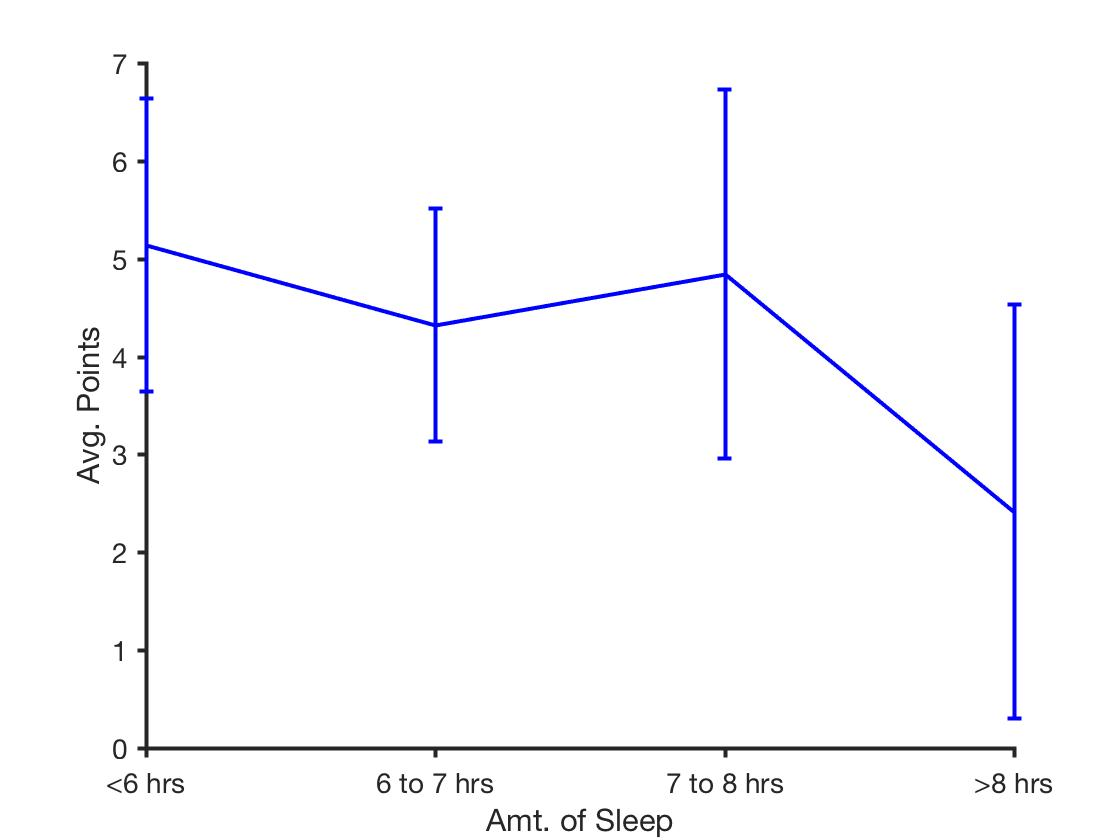
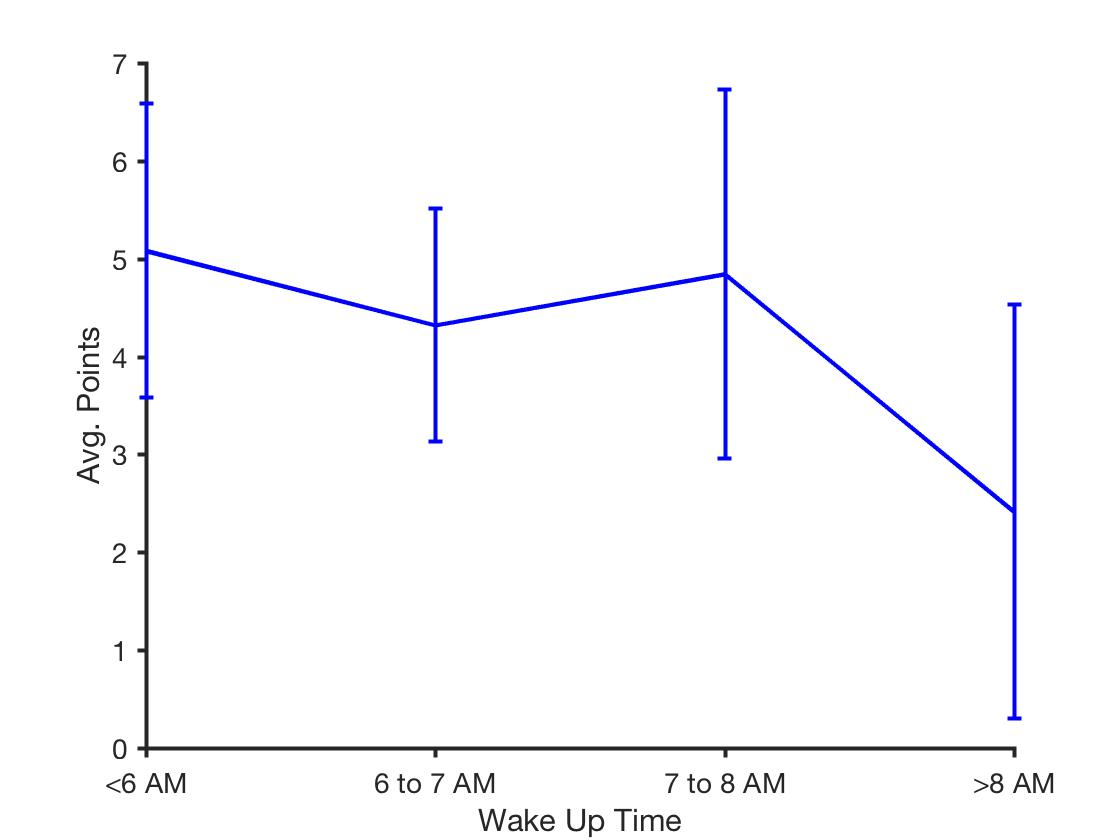
sdf

diff --git a/_posts/2017-12-20-Productivity-Analysis.md b/_posts/2017-12-20-Productivity-Analysis.md
@@ -15,18 +15,18 @@ Essentially, I have a list of daily goals that I wish to accomplish, and I get p
 
 Now that I have been doing this method for the past half a year, I thought I would document the data so far. Perhaps I can learn what factors lead me to have the most productive day?
 
-I should note that I have already conducted a similar study on myself during undergrad, where I plotted how long it took me to complete tasks at different times of day. I discovered that my efficiency (most work completed in least amount of time) was at its peak the earlier in the day I worked on the tasks, and that I was least productive in later hours of the day (in addition to a slight dip during the afternoon). Here I wanted to more finely figure out what leads to an overall benefit to my productivity, as measured by an aggregate "points" system.
-
-## Sleeping less = More productive?
-I try to get a little over 7 hours of sleep a night, but that's just my subjective account of what feels best when I wake up. Perhaps I actually work much better with 8 hours of sleep, or with 6 hours of sleep. Here is a plot of number of hours of sleep against number of points accrued.
+## Waking up Early = More productive?
+I maintain a fairly consistent sleep schedule, falling asleep around 10:30pm most days. I try to get 7.5 hours of sleep, waking up at 6:00am. However, I frequently oversleep. Here I can calculate my wake up times against the amount of points I accrue that day. Perhaps I  work much better with 9 hours of sleep (later wake up times), or with 6 hours of sleep (earlier wake up times).
 
 <img src = "/images/prod1.jpg" style="height: 75%; width: 75%">
 <i>Error bars represent 1 std dev. Days when I was not concerned about my productivity were not included in this data (e.g., vacations, conferences).</i>
 
-Strangely, it seems that as long as I sleep less than 8 hours, I have about the same level of productivity. I somewhat expected that getting too much sleep would lead to less productivity, but I thought that getting too little sleep would also be detrimental. Curious about this result, I recreated the same graph given that the y-axis now plotted the <i>next day's</i> accrued points. The idea is that after sleeping so little, the ramifications might hit me the following day.
+It seems that as long as I wake up before 8am (~9.5 hrs of sleep), I have about the same level of productivity. I somewhat expected that getting too much sleep would lead to less productivity, but I thought that getting too little sleep would also be detrimental. Curious about this result, I recreated the same graph given that the y-axis now plotted the <i>next day's</i> accrued points. The idea is that after sleeping so little, the ramifications might hit me the following day.
 
 <img src = "/images/prod2.jpg" style="height:75%; width: 75%">
 
-It doesn't really seem like it. I also thought that perhaps on days where I sleep less than 6 hours, I also tend to oversleep the following day. However, on average I slept only 30 minutes more. I should also note that most of the days I slept <6 hours  comes from sleeping about 5 hours and 45 minutes.
+It doesn't really seem like it. In fact, oversleeping the night before seems to be carrying over into the next day's productivity.
+
+I also thought that perhaps on days where I sleep less than 6 hours, I also tend to oversleep the following day. However, on average, I slept only 30 minutes more than the previous day. I should also note that most of the days where I slept <6 hours  come from sleeping about 5 hours and 45 minutes.
 
 <b>Conclusion: Sleep anywhere from 6 to 8 hours for optimal productivity, but do NOT oversleep!</b>
